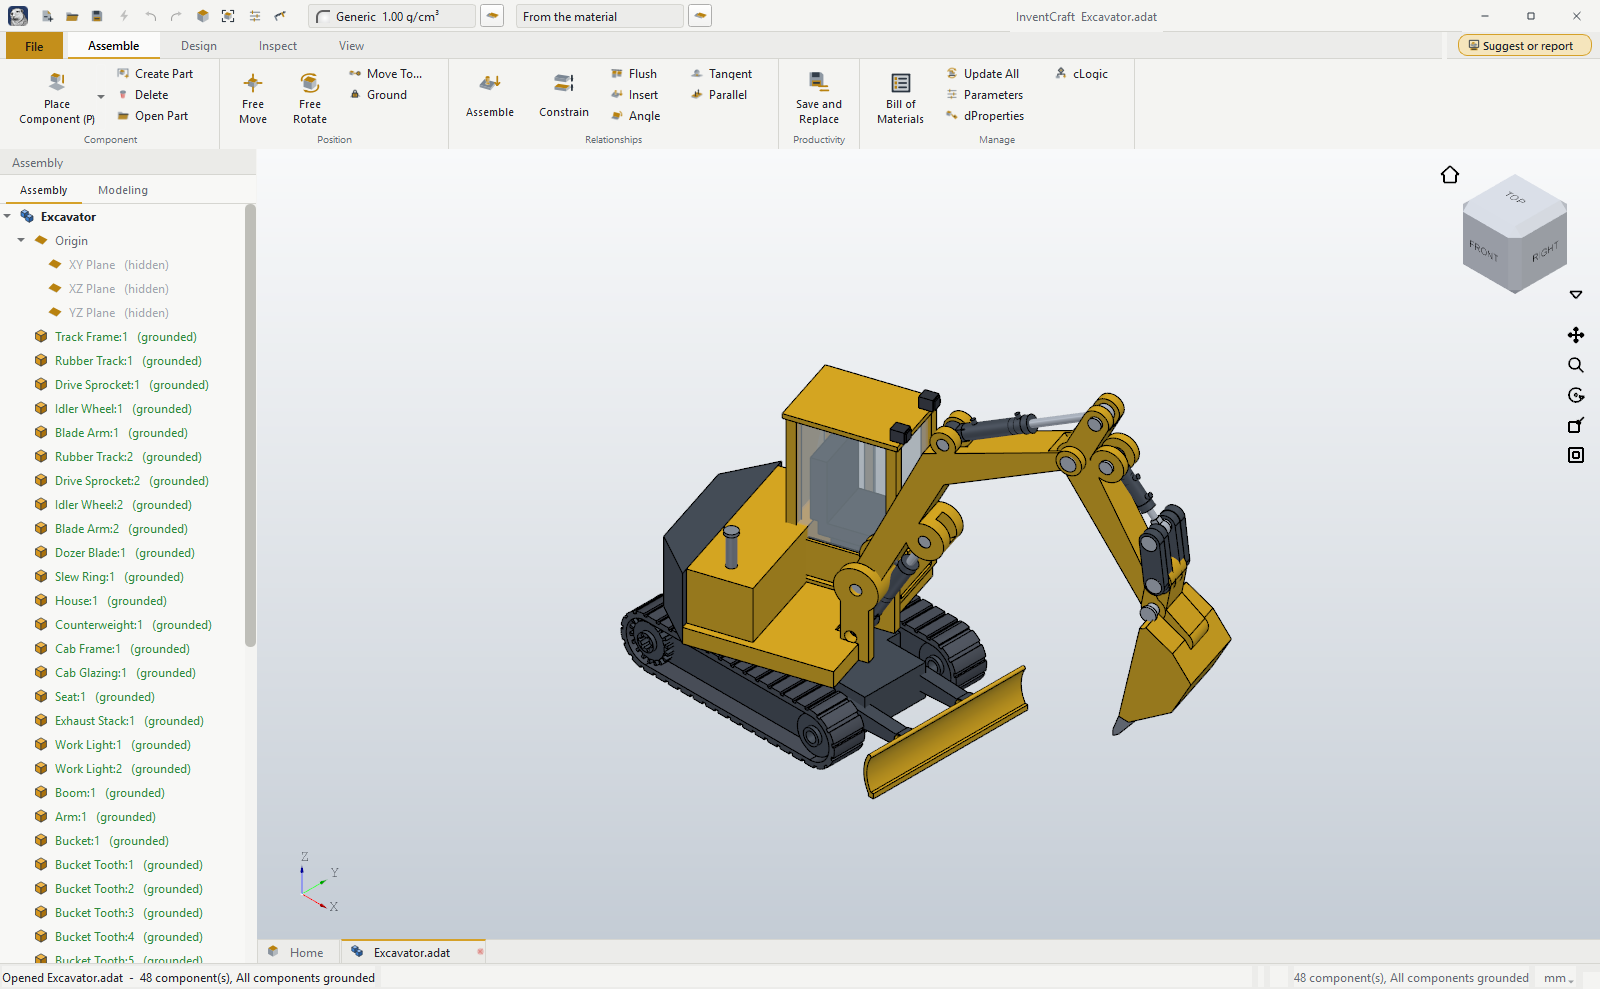
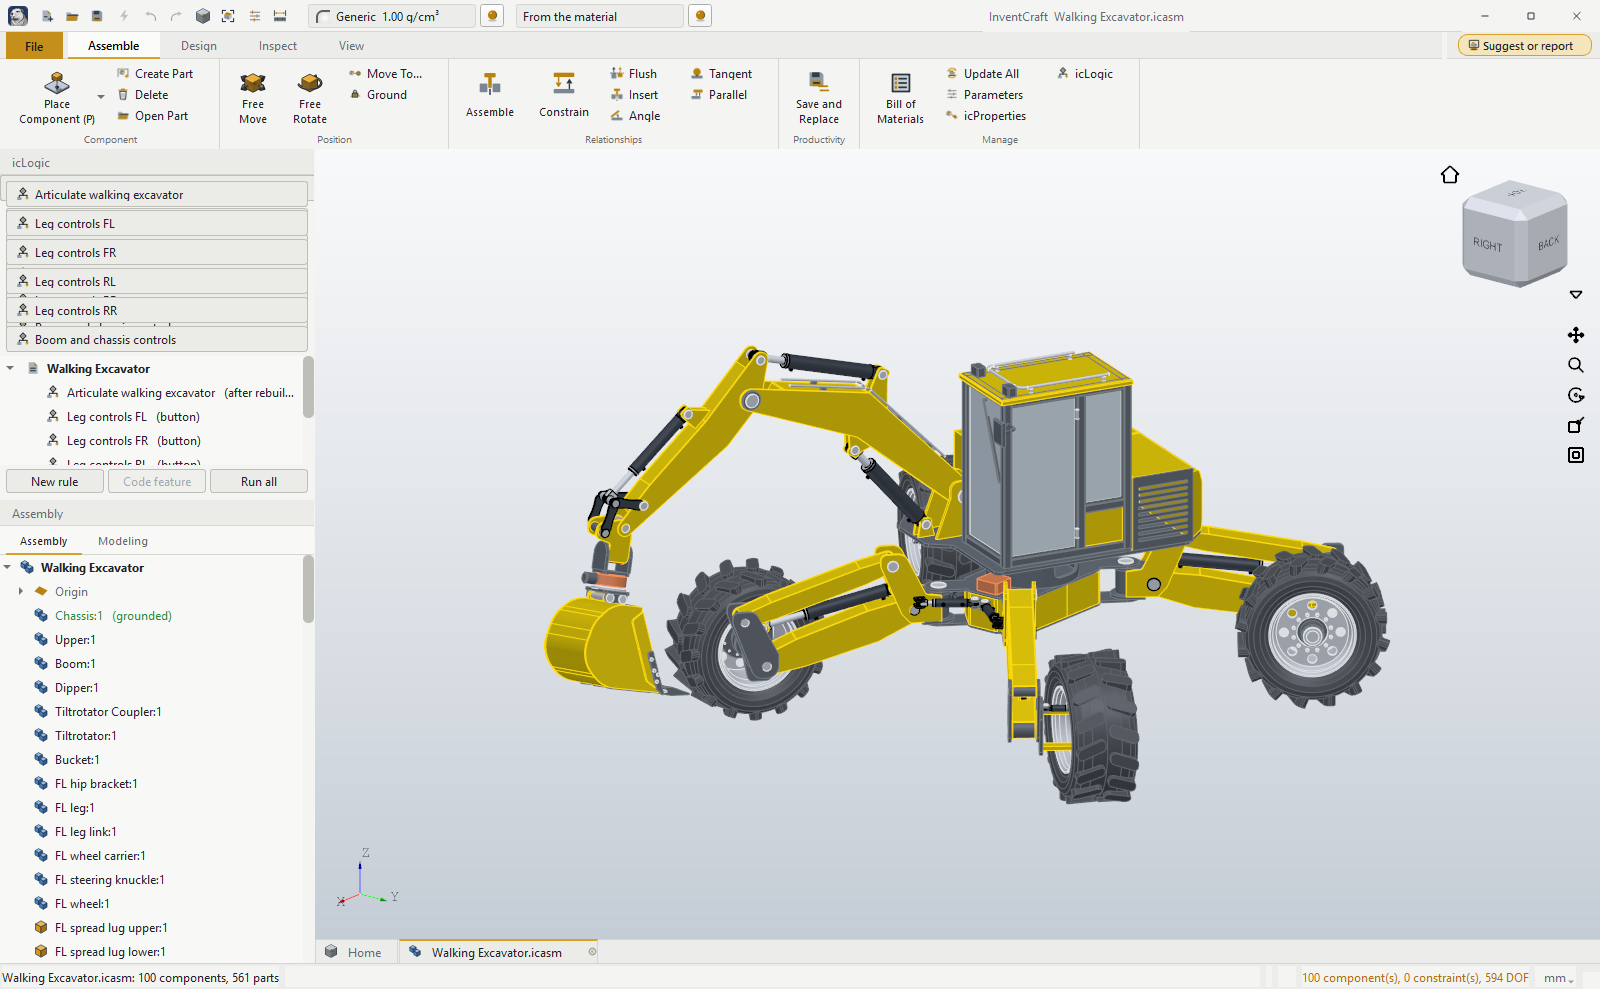
InventCraft 0.4.4

diff --git a/datum/__init__.py b/datum/__init__.py
@@ -3,7 +3,7 @@
 A feature-based, history-driven modeller built on the OpenCASCADE kernel.
 """
 
-__version__ = "0.4.3"
+__version__ = "0.4.4"
 APP_NAME = "InventCraft"
 # The name the program had until 0.3.0.  Settings, preferences, the
 # update feed, the taskbar identity and the format marker inside every

diff --git a/README.md b/README.md
@@ -16,6 +16,14 @@ MIT licensed
 
 ![InventCraft](docs/screenshot.png)
 
+![A walking excavator designed in InventCraft](docs/walking-excavator.jpg)
+
+The walking excavator above is built entirely in InventCraft, from
+[`examples/build_walking_excavator.py`](examples/build_walking_excavator.py):
+parallelogram legs, steered wheels, a fabricated boom, a bucket rolled from
+one plate, a cab framed by the Frame Generator, and icLogic forms that drive
+every joint. See [its README](examples/walking-excavator/README.md).
+
 ## Running it from source
 
 ```bash
